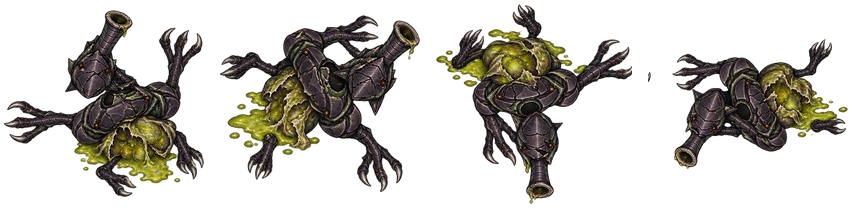
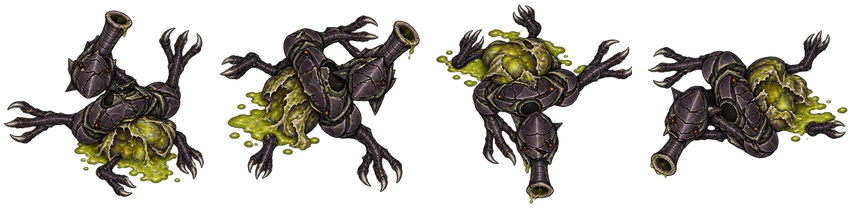
Swarm strains: art review suite, headless swarm bodies, one corpse per frame
- swarm-strains snapshot suite: the three strain bodies through the
  production composer, magnified and at battle zoom, with both corpse sheets.
- Headless review frames now load the XENO, XENO_BRUTE and XENO_SPITTER
  families and the corpse sheets of families without lying poses; every
  swarm body used to draw as a placeholder square there.
- export_corpses.py drops a fleck the slicer would cut into its own frame
  and asserts the sheet slices into exactly four corpses (the Spitter's
  sheet had sliced into five).

Changed region(s): [[0.7629, 0.1442, 1.0, 0.8654]]

diff --git a/src/test/java/com/dillon/starsectormarines/ops/battleview/SwarmStrainLayerSnapshotSuite.java b/src/test/java/com/dillon/starsectormarines/ops/battleview/SwarmStrainLayerSnapshotSuite.java
@@ -1,0 +1,204 @@
+package com.dillon.starsectormarines.ops.battleview;
+
+import com.dillon.starsectormarines.battle.appearance.LayeredAppearance;
+import com.dillon.starsectormarines.battle.infantry.EquipmentGrade;
+import com.dillon.starsectormarines.battle.unit.UnitType;
+import com.dillon.starsectormarines.battle.world.tiles.SpriteSheetFrames;
+import com.dillon.starsectormarines.battle.world.tiles.SpriteSheetSlicer;
+import com.dillon.starsectormarines.tools.snapshot.SnapshotArtifact;
+import com.dillon.starsectormarines.tools.snapshot.SnapshotContext;
+import com.dillon.starsectormarines.tools.snapshot.SnapshotSuite;
+
+import javax.imageio.ImageIO;
+import java.awt.Color;
+import java.awt.Font;
+import java.awt.Graphics2D;
+import java.awt.RenderingHints;
+import java.awt.geom.AffineTransform;
+import java.awt.image.BufferedImage;
+import java.nio.file.Path;
+import java.util.ArrayList;
+import java.util.HashMap;
+import java.util.List;
+import java.util.Map;
+
+/**
+ * The owner's art review of the swarm strain bodies: Runner, Brute and Spitter
+ * through the production layered composer, magnified and at the game's normal
+ * battle zoom, walking and striking, beside their corpse sheets. 1920x1080 at
+ * 100% scale. The scene suites show the same bodies fighting; this sheet is
+ * where they are large enough to judge.
+ */
+public final class SwarmStrainLayerSnapshotSuite implements SnapshotSuite {
+
+    private static final String ALIEN = "graphics/battle/alien-modular-topdown/";
+    private static final String BRUTE = "graphics/battle/swarm-brute-modular-topdown/";
+    private static final String SPITTER = "graphics/battle/swarm-spitter-modular-topdown/";
+    /** The game's cell size at its normal zoom on a 1920-wide screen. */
+    private static final float CELL_PX = 17.142857f;
+    private static final Color GROUND = new Color(0x4A4638);
+    private final Map<String, BufferedImage> images = new HashMap<>();
+    private Path modRoot;
+
+    @Override public String id() { return "swarm-strains"; }
+
+    @Override public String label() { return "Swarm strain bodies: Runner, Brute, Spitter and their corpses"; }
+
+    @Override
+    public List<SnapshotArtifact> render(SnapshotContext context) throws Exception {
+        modRoot = context.modRoot();
+        images.clear();
+        List<BufferedImage> frames = new ArrayList<>();
+        for (int i = 0; i < 12; i++) frames.add(review(i / 12f));
+        List<SnapshotArtifact> artifacts = new ArrayList<>();
+        artifacts.add(new SnapshotArtifact("swarm-strains-sheet.png", frames.get(0)));
+        artifacts.add(SnapshotArtifact.colorAnimation("swarm-strains-motion.gif", frames, 110));
+        return artifacts;
+    }
+
+    private BufferedImage review(float phase) throws Exception {
+        BufferedImage output = new BufferedImage(1920, 1080, BufferedImage.TYPE_INT_ARGB);
+        Graphics2D g = output.createGraphics();
+        g.setRenderingHint(RenderingHints.KEY_INTERPOLATION, RenderingHints.VALUE_INTERPOLATION_BILINEAR);
+        g.setRenderingHint(RenderingHints.KEY_TEXT_ANTIALIASING, RenderingHints.VALUE_TEXT_ANTIALIAS_ON);
+        g.setColor(new Color(0x111920));
+        g.fillRect(0, 0, 1920, 1080);
+        text(g, "SWARM STRAINS / RUNNER, BRUTE, SPITTER", 40, 48, 28);
+        text(g, "1920 × 1080 · 100% UI scale · production layered composition · corpses from each strain's sheet",
+                40, 79, 17);
+
+        LayeredUnitAssets runner = assets(ALIEN, ALIEN + "foot.png", ALIEN + "fore-claw.png");
+        LayeredUnitAssets brute = assets(BRUTE, BRUTE + "foot.png", BRUTE + "fore-claw.png");
+        LayeredUnitAssets spitter = assets(SPITTER, ALIEN + "foot.png", ALIEN + "fore-claw.png");
+        LayeredUnitAssets[] strains = {runner, brute, spitter};
+        UnitType[] types = {UnitType.SWARM_RUNNER, UnitType.SWARM_BRUTE, UnitType.SWARM_SPITTER};
+        String[] names = {"Runner", "Brute", "Spitter"};
+
+        // Magnified: each strain at its own render scale, so relative size reads true.
+        text(g, "Magnified ×8 · relative sizes true · idle, walking, striking", 40, 125, 20);
+        float magnify = 8f;
+        for (int s = 0; s < 3; s++) {
+            float sw = shoulder(types[s]) * magnify;
+            int x0 = 130 + s * 620;
+            actor(g, strains[s], x0, 300, sw, LayeredAppearance.POSE_IDLE, 0, phase, 0f);
+            actor(g, strains[s], x0 + 200, 300, sw, LayeredAppearance.POSE_IDLE,
+                    LayeredAppearance.FLAG_MOVING, phase, 0f);
+            actor(g, strains[s], x0 + 400, 300, sw, LayeredAppearance.POSE_FIRING, 0, phase,
+                    (phase * 3f) % 1f);
+            text(g, names[s] + " · idle / walking / strike", x0 - 80, 445, 16);
+        }
+        divider(g, 470);
+
+        // Corpse sheets, magnified.
+        text(g, "Corpse sheets · all four poses, magnified ×2.5", 40, 510, 20);
+        for (int s = 1; s < 3; s++) {
+            BufferedImage sheet = image(types[s].deadSpritePath);
+            SpriteSheetFrames frames = SpriteSheetSlicer.slice(sheet);
+            float longSide = CELL_PX * types[s].renderScale * 2.5f * 2f;
+            int x = 40 + (s - 1) * 940;
+            for (SpriteSheetFrames.Frame f : frames.frames) {
+                float scale = longSide / Math.max(f.w, f.h);
+                int w = Math.round(f.w * scale);
+                int h = Math.round(f.h * scale);
+                g.drawImage(sheet, x, 640 - h / 2, x + w, 640 + h / 2,
+                        f.x, f.y, f.x + f.w, f.y + f.h, null);
+                x += w + 24;
+            }
+            text(g, names[s] + " corpses", 40 + (s - 1) * 940, 740, 16);
+        }
+        divider(g, 760);
+
+        // Battle zoom on ground: what the player sees.
+        text(g, "Battle zoom · %.1f px cells · a pack crossing, and the dead where they fell"
+                .formatted(CELL_PX), 40, 795, 20);
+        g.setColor(GROUND);
+        g.fillRect(40, 810, 1840, 250);
+        float[][] pack = {
+                {0, 120, 860, 0}, {0, 180, 900, 15}, {0, 250, 850, -10}, {0, 320, 920, 5},
+                {0, 400, 880, 20}, {0, 170, 1000, -5}, {0, 290, 980, 10}, {0, 380, 1020, 0},
+                {1, 520, 900, 0}, {1, 560, 1000, 12},
+                {2, 760, 880, -8}, {2, 820, 990, 6}, {2, 700, 1030, 0},
+        };
+        for (float[] p : pack) {
+            int s = (int) p[0];
+            actor(g, strains[s], p[1], p[2], shoulder(types[s]), s == 2 && p[3] == 0
+                            ? LayeredAppearance.POSE_FIRING : LayeredAppearance.POSE_IDLE,
+                    LayeredAppearance.FLAG_MOVING, phase + p[1] / 300f, 0.5f, -90f + p[3]);
+        }
+        int cx = 1100;
+        for (int s = 0; s < 3; s++) {
+            BufferedImage sheet = image(types[s].deadSpritePath);
+            SpriteSheetFrames frames = SpriteSheetSlicer.slice(sheet);
+            for (int i = 0; i < Math.min(4, frames.frames.length); i++) {
+                SpriteSheetFrames.Frame f = frames.frames[i];
+                float longSide = CELL_PX * types[s].renderScale;
+                float scale = longSide / Math.max(f.w, f.h);
+                int w = Math.round(f.w * scale);
+                int h = Math.round(f.h * scale);
+                int x = cx + i * 60;
+                int y = 870 + s * 60;
+                g.drawImage(sheet, x - w / 2, y - h / 2, x + w / 2, y + h / 2,
+                        f.x, f.y, f.x + f.w, f.y + f.h, null);
+            }
+            text(g, names[s], cx + 260, 875 + s * 60, 14);
+        }
+        g.dispose();
+        return output;
+    }
+
+    private static float shoulder(UnitType type) {
+        return UnitRenderService.layeredInfantryShoulderWidth(CELL_PX, type.renderScale);
+    }
+
+    private void actor(Graphics2D g, LayeredUnitAssets assets, float x, float y, float sw,
+                       int pose, int flags, float phase, float weaponPhase) {
+        actor(g, assets, x, y, sw, pose, flags, phase, weaponPhase, 0f);
+    }
+
+    /** {@code facing} in the composer's degrees; 0 faces up the sheet, 90 to the left. */
+    private void actor(Graphics2D g, LayeredUnitAssets assets, float x, float y, float sw,
+                       int pose, int flags, float phase, float weaponPhase, float facing) {
+        LayeredUnitComposer.emit((sprite, cx, cy, width, height, angle, red, green, blue, alpha) -> {
+            BufferedImage source = images.get(sprite.sourcePath);
+            AffineTransform transform = new AffineTransform();
+            transform.translate(cx, 1080f - cy);
+            transform.rotate(-Math.toRadians(angle));
+            transform.scale(width / source.getWidth(), height / source.getHeight());
+            transform.translate(-source.getWidth() / 2.0, -source.getHeight() / 2.0);
+            g.drawImage(source, transform, null);
+        }, assets, assets.head, null, false, null, EquipmentGrade.SERVICE,
+                x, 1080f - y, sw, facing, 0f, phase, weaponPhase, pose, flags, 1f);
+    }
+
+    private LayeredUnitAssets assets(String root, String foot, String claw) throws Exception {
+        return new LayeredUnitAssets(layer(root + "body.png"), layer(root + "head.png"),
+                layer(foot), layer(claw), null, null, null, null, null, null, null, null, null,
+                null, null);
+    }
+
+    private LayeredSpriteCache layer(String path) throws Exception {
+        BufferedImage image = image(path);
+        return LayeredSpriteCache.headless(path, image.getWidth(), image.getHeight());
+    }
+
+    private BufferedImage image(String path) throws Exception {
+        BufferedImage result = images.get(path);
+        if (result == null) {
+            result = ImageIO.read(modRoot.resolve(path).toFile());
+            if (result == null) throw new IllegalArgumentException("Unreadable sprite: " + path);
+            images.put(path, result);
+        }
+        return result;
+    }
+
+    private static void divider(Graphics2D g, int y) {
+        g.setColor(new Color(0x2A3640));
+        g.fillRect(40, y, 1840, 2);
+    }
+
+    private static void text(Graphics2D g, String value, int x, int y, int size) {
+        g.setColor(new Color(0xD3DFE5));
+        g.setFont(new Font(Font.SANS_SERIF, Font.PLAIN, size));
+        g.drawString(value, x, y);
+    }
+}

diff --git a/src/test/java/com/dillon/starsectormarines/ops/battleview/HeadlessBattleSprites.java b/src/test/java/com/dillon/starsectormarines/ops/battleview/HeadlessBattleSprites.java
@@ -6,6 +6,7 @@ import com.dillon.starsectormarines.battle.vehicle.VehicleType;
 import com.dillon.starsectormarines.battle.turret.TurretCatalogRegistry;
 import com.dillon.starsectormarines.battle.air.ShuttleType;
 import com.dillon.starsectormarines.battle.appearance.LayeredArmorFamily;
+import com.dillon.starsectormarines.battle.unit.UnitType;
 import com.dillon.starsectormarines.battle.appearance.UnitLayerLayouts;
 import com.dillon.starsectormarines.battle.flyby.FighterProfile;
 import com.dillon.starsectormarines.battle.world.model.TileManifest;
@@ -468,7 +469,30 @@ final class HeadlessBattleSprites extends BattleSprites {
         loadFamily(LayeredArmorFamily.SCIENTIST,
                 "graphics/battle/colonist-modular-topdown/scientist/", layer("graphics/battle/colonist-modular-topdown/scientist/foot.png"),
                 null, rifle, laser, smg, dmr, rocket, amr, flash, surplus, masterwork);
+        // The swarm, as BattleSprites loads it: the Spitter walks and strikes on the Runner's feet and claws.
+        String alien = "graphics/battle/alien-modular-topdown/";
+        LayeredSpriteCache alienFoot = layer(alien + "foot.png");
+        LayeredSpriteCache alienClaw = layer(alien + "fore-claw.png");
+        loadFamily(LayeredArmorFamily.XENO, alien, alienFoot, alienClaw,
+                rifle, laser, smg, dmr, rocket, amr, flash, surplus, masterwork);
+        String brute = "graphics/battle/swarm-brute-modular-topdown/";
+        loadFamily(LayeredArmorFamily.XENO_BRUTE, brute, layer(brute + "foot.png"),
+                layer(brute + "fore-claw.png"), rifle, laser, smg, dmr, rocket, amr, flash, surplus, masterwork);
+        loadFamily(LayeredArmorFamily.XENO_SPITTER, "graphics/battle/swarm-spitter-modular-topdown/",
+                alienFoot, alienClaw, rifle, laser, smg, dmr, rocket, amr, flash, surplus, masterwork);
+        // Families without lying poses fall through their unit type's corpse sheet, which the
+        // base class would load through the game.
+        for (UnitType type : UnitType.values()) {
+            if (type.deadSpritePath == null || !type.drawnAsLayers()
+                    || LayeredArmorFamily.spawnDefault(type).hasDownedArt()) continue;
+            deadSheets.put(type, new UnitSpriteCache(sprite(type.deadSpritePath),
+                    slice(type.deadSpritePath)));
+        }
     }
+
+    private final EnumMap<UnitType, UnitSpriteCache> deadSheets = new EnumMap<>(UnitType.class);
+
+    @Override public EnumMap<UnitType, UnitSpriteCache> unitDeadSprites() { return deadSheets; }
 
     private void loadFamily(LayeredArmorFamily family, String root,
                             LayeredSpriteCache foot, LayeredSpriteCache claw,

diff --git a/art-source/swarm-strains/export_corpses.py b/art-source/swarm-strains/export_corpses.py
@@ -18,11 +18,45 @@ ALPHA_FLOOR = 16
 FRAME_LONG = 200
 GAP = 16
 PAD = 4
+# SpriteSheetSlicer: a run of this many empty columns ends a frame.
+SLICER_MIN_GAP = 4
 
 TARGETS = {
     "brute-corpse": "swarm-brute-dead.png",
     "spitter-corpse": "swarm-spitter-dead.png",
 }
+
+
+def column_groups(image: Image.Image) -> list[tuple[int, int]]:
+    """Content column runs as the slicer groups them: gaps under SLICER_MIN_GAP are inside a frame."""
+    alpha = image.getchannel("A")
+    width, height = image.size
+    data = alpha.load()
+    filled = [any(data[x, y] >= ALPHA_FLOOR for y in range(height)) for x in range(width)]
+    groups, start, gap = [], None, 0
+    for x, on in enumerate(filled):
+        if on:
+            if start is None:
+                start = x
+            gap = 0
+            end = x
+        elif start is not None:
+            gap += 1
+            if gap >= SLICER_MIN_GAP:
+                groups.append((start, end))
+                start, gap = None, 0
+    if start is not None:
+        groups.append((start, end))
+    return groups
+
+
+def one_frame(quarter: Image.Image) -> Image.Image:
+    """Keeps the widest column group: a fleck the slicer would cut off as its own frame is dropped."""
+    groups = column_groups(quarter)
+    if len(groups) <= 1:
+        return quarter
+    keep = max(groups, key=lambda g: g[1] - g[0])
+    return quarter.crop((keep[0], 0, keep[1] + 1, quarter.height))
 
 
 def main() -> None:
@@ -45,7 +79,8 @@ def main() -> None:
             bounds = quarter.getchannel("A").getbbox()
             if bounds is None:
                 raise ValueError(f"{part}: quarter {i} is empty")
-            quarter = quarter.crop(bounds)
+            quarter = one_frame(quarter.crop(bounds))
+            quarter = quarter.crop(quarter.getchannel("A").getbbox())
             scale = FRAME_LONG / max(quarter.size)
             frames.append(quarter.resize(
                 (max(1, round(quarter.width * scale)),
@@ -58,6 +93,9 @@ def main() -> None:
         for frame in frames:
             sheet.alpha_composite(frame, (x, PAD + (height - 2 * PAD - frame.height) // 2))
             x += frame.width + GAP
+        found = len(column_groups(sheet))
+        if found != len(frames):
+            raise ValueError(f"{part}: the slicer would find {found} frames, not {len(frames)}")
         out = graphics / target
         sheet.save(out, optimize=True)
         print(f"{part}: {len(frames)} frames -> {out.name} {sheet.size}")

diff --git a/roadmap/battle-render/design/snapshot-suites.md b/roadmap/battle-render/design/snapshot-suites.md
@@ -64,6 +64,7 @@ by name.
 | `killing-ground` | Two mirror-image lanes to one objective: a squad destroyed in one of them, its killers removed, and the next squad sent up to choose again | `build/snapshots/killing-ground/` |
 | `mech-doctrine` | Four animated loops of one Bulwark under Brawler, Tank, Long Range Support, and Balanced doctrine, plus a paired Form-on-Lead / Free-Reign Brawler comparison | `build/snapshots/mech-doctrine/` |
 | `swarm-overkill` | One squad meeting a rush of runners a single rifle kills, both sides ordered to hold the ground so they actually fight. The no-regression control for damage-aware target crowding | `build/snapshots/swarm-overkill/` |
+| `swarm-strains` | The swarm strain bodies through the production layered composer: Runner, Brute and Spitter magnified at true relative size (idle, walking, striking), both new corpse sheets, and a pack with its dead at battle zoom; 1920x1080, 100% scale, plus a motion GIF | `build/snapshots/swarm-strains/` |
 | `swarm-strains-skirmish` | Runners, Brutes and Spitters against a held squad on a map one screen wide, so the whole-map recording is battle zoom at 1920x1080 (plus a 2x close recording and stills): the strain bodies' art review, walking, striking, lobbing, dying and lying as corpses | `build/snapshots/swarm-strains-skirmish/` |
 | `swarm-brute-breach` | A Brute against a held colony building: breaking in where no door is near, using a near door, sparing fortified walls, going for an emplacement first | `build/snapshots/swarm-brute-breach/` |
 | `player-order` | One squad under a long standing mission and one ground click off its axis, recorded three ways: the click answered and carried out, the same world with nobody clicking, and the same click into a picket's fire. The acceptance for the order-path rebuild | `build/snapshots/player-order/` |
